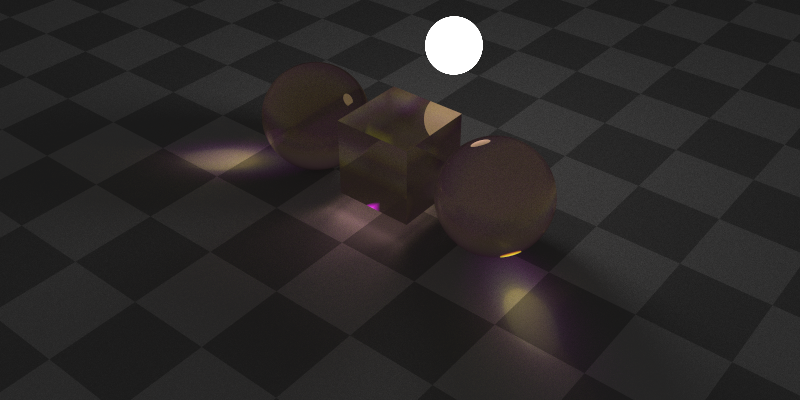
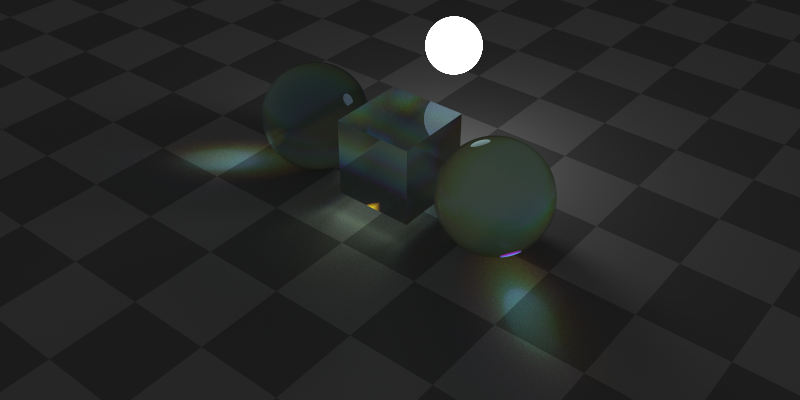
fix dielectric

diff --git a/ray_tracing_core/src/material/dielectric.rs b/ray_tracing_core/src/material/dielectric.rs
@@ -55,7 +55,7 @@ impl Material for Dielectric {
         let mut w = ray_in.w;
         if self.ref_idx.end > self.ref_idx.start + 0.00001 && w.is_none() {
             let w_value = random::generate_size();
-            albedo = albedo * Dielectric::hue_to_rgb(glm::clamp((1.0 - w_value) * 5.0 / 6.0, 0.0, 1.0));
+            albedo = albedo * Dielectric::hue_to_rgb(glm::clamp((w_value) * 5.0 / 6.0, 0.0, 1.0));
             w = Some(w_value);
         }
         let ref_idx = match w {

diff --git a/README.md b/README.md
@@ -57,7 +57,6 @@ Dielectric
 
 ![dielectric 1](rendering/MaterialDielectric1_800x400_10000_samples.png)
 
-(Physically completely wrong, but a nice effect)  
 ![dielectric 2](rendering/MaterialDielectric2_800x400_10000_samples.png)
 
 Blending material
